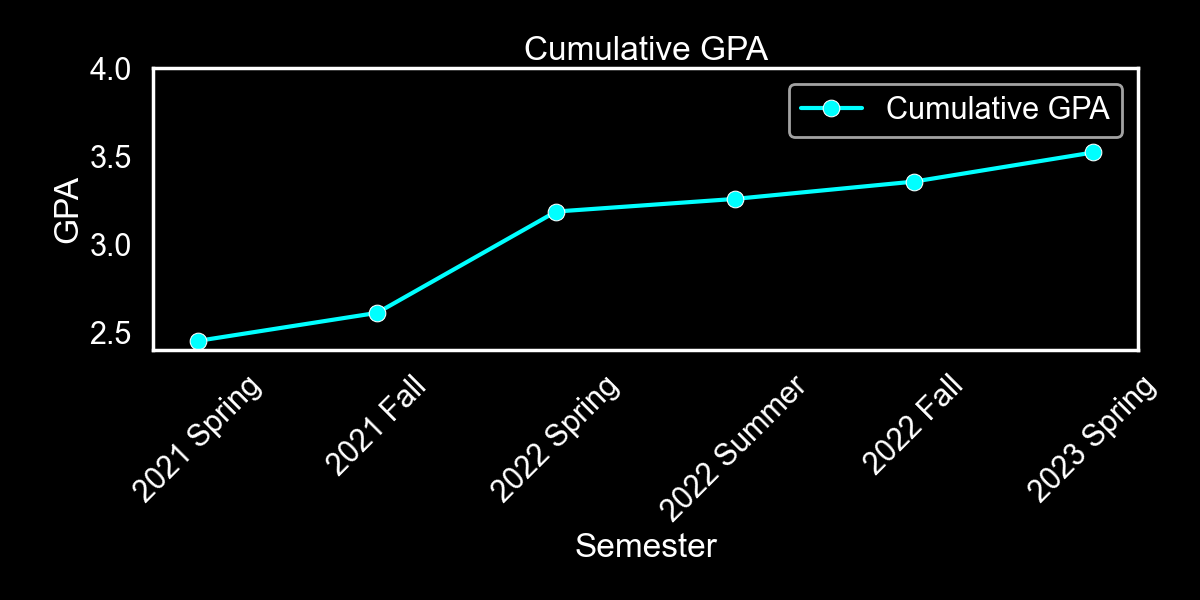
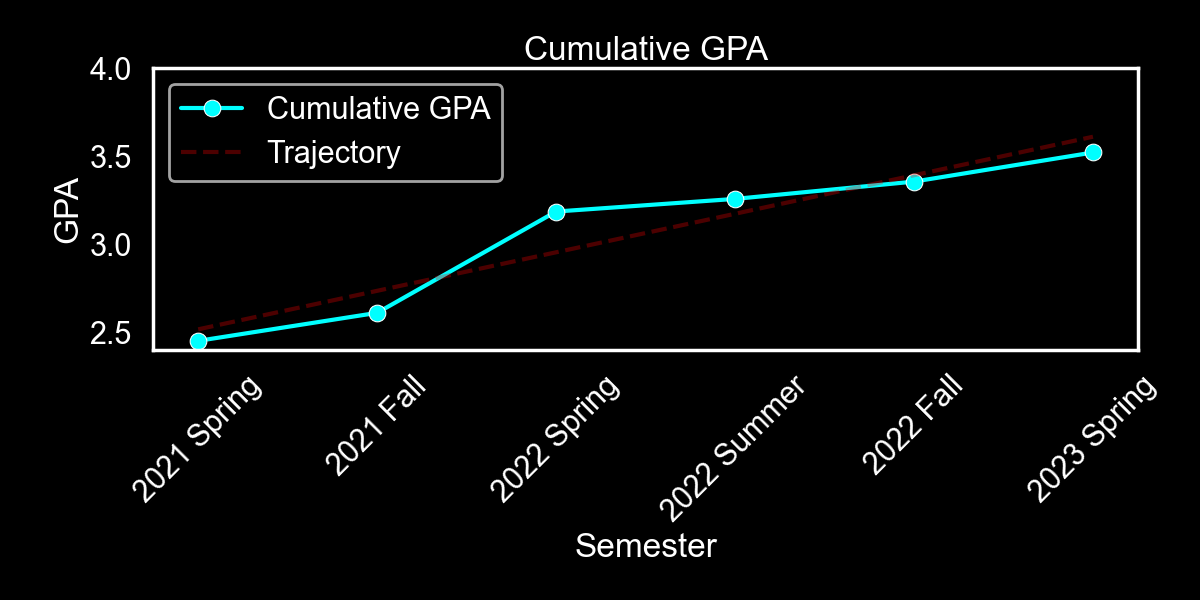
added more analytics

diff --git a/html/transcript.html b/html/transcript.html
@@ -197,6 +197,20 @@
         </div>
 
         <div class="gpa-info">
+
+            <div class="gpa-info-tile">
+                <h4 style="font-size: 20px; margin: 5px 0;">Cumulative GPA:</h4>
+                <p style="font-size: 60px; font-weight: 600; margin: 0px 0; color: rgb(129, 241, 129);;">
+                3.52
+                </p>
+            </div>
+
+            <div class="gpa-info-tile">
+                <h4 style="font-size: 20px; margin: 5px 0;">Semesters Taken:</h4>
+                <p style="font-size: 60px; font-weight: 600; margin: 0 auto; color: white;">6</p>
+            </div>
+
+
             <div class="gpa-info-tile">
                 <h4 style="font-size: 20px; margin: 5px 0;">Cumulative GPA change:</h4>
                 <p style="margin: 0;">(avg. % change per semester)</p>
@@ -206,7 +220,6 @@
                     
                 </p>
             </div>
-            <div class="gpa-info-tile"></div>
         </div>
 
 
@@ -285,7 +298,7 @@
         
         <div class="semester">
             <h2>2022 Fall</h2>
-            <p>Term GPA: 3.5416666666666665</p>
+            <p>Term GPA: 3.54</p>
             <p>Cumulative GPA: 3.355769230769231</p>
             <table>
                 <tr>
@@ -429,7 +442,7 @@
         
         <div class="semester">
             <h2>2021 Fall</h2>
-            <p>Term GPA: 2.875</p>
+            <p>Term GPA: 2.88</p>
             <p>Cumulative GPA: 2.609375</p>
             <table>
                 <tr>

diff --git a/html/transcript_template.html b/html/transcript_template.html
@@ -197,6 +197,20 @@
         </div>
 
         <div class="gpa-info">
+
+            <div class="gpa-info-tile">
+                <h4 style="font-size: 20px; margin: 5px 0;">Cumulative GPA:</h4>
+                <p style="font-size: 60px; font-weight: 600; margin: 0px 0; color: {% if gpa > 3.0 %}rgb(129, 241, 129);{% else %}rgb(194, 4, 4){% endif %};">
+                {{ gpa }}
+                </p>
+            </div>
+
+            <div class="gpa-info-tile">
+                <h4 style="font-size: 20px; margin: 5px 0;">Semesters Taken:</h4>
+                <p style="font-size: 60px; font-weight: 600; margin: 0 auto; color: white;">{{ num_semesters }}</p>
+            </div>
+
+
             <div class="gpa-info-tile">
                 <h4 style="font-size: 20px; margin: 5px 0;">Cumulative GPA change:</h4>
                 <p style="margin: 0;">(avg. % change per semester)</p>
@@ -208,7 +222,6 @@
                     {% endif %}
                 </p>
             </div>
-            <div class="gpa-info-tile"></div>
         </div>
 
 

diff --git a/Transcript.py b/Transcript.py
@@ -2,6 +2,7 @@ import pandas as pd
 import seaborn as sns
 import matplotlib.pyplot as plt
 from Semester import *
+import numpy as np
 import jinja2
 
 class Transcript:
@@ -9,6 +10,7 @@ class Transcript:
         self.gpa = gpa
         self.total_courses = total_courses
         self.semesters = semesters
+        self.num_semesters = 0
         self.avg_percent_change = 0
 
     def print_transcript(self):
@@ -61,6 +63,7 @@ class Transcript:
             total_units += s.total_gpa_units
 
         self.gpa = total_score/total_units
+        self.num_semesters = len(self.semesters)
 
         total_percent_change, num_semesters = 0, 0
         cum_gpa_points, cum_gpa_units = 0, 0
@@ -82,7 +85,7 @@ class Transcript:
             total_percent_change += percent_change
             num_semesters += 1
         self.avg_percent_change = round(total_percent_change / max(num_semesters-1, 1),2)
-        print(num_semesters-1)
+        self.gpa = round(cum_gpa,2)
 
 
     def generate_dataframe(self):
@@ -169,9 +172,20 @@ class Transcript:
         plt.clf()
 
 
+
+
+        x_data = gpa_data["Semester"]
+        y_data = gpa_data["Cumulative GPA"]
+
+        # Calculate the coefficients of the best-fit line (y = mx + b)
+        coefficients = np.polyfit(range(len(x_data)), y_data, 1)
+        m, b = coefficients
+        best_fit_line = m * np.arange(len(x_data)) + b
+
         # Line plot for Cumulative GPA
         plt.figure(figsize=(12, 6))
         sns.lineplot(x="Semester", y="Cumulative GPA", data=gpa_data, marker='o', color='cyan', label='Cumulative GPA')
+        plt.plot(x_data, best_fit_line, color='red', linestyle='--', label='Trajectory', alpha=0.3)
 
         # Styling the Cumulative GPA plot
         plt.ylim(2.4, 4.0)  # Set the y-axis limit to 0 and 4.0
@@ -214,7 +228,7 @@ class Transcript:
         template_env = jinja2.Environment(loader=template_loader)
         template = template_env.get_template(template_file)
 
-        html_output = template.render(semesters=self.semesters,avg_percent_change=self.avg_percent_change)
+        html_output = template.render(semesters=self.semesters,avg_percent_change=self.avg_percent_change, gpa = self.gpa, num_semesters = self.num_semesters)
 
         with open(output_file, "w") as file:
             file.write(html_output)

diff --git a/Semester.py b/Semester.py
@@ -68,4 +68,4 @@ class Semester:
         self.total_gpa_units = total_units
         total_score /= total_units
 
-        self.term_gpa = total_score
+        self.term_gpa = round(total_score,2)
